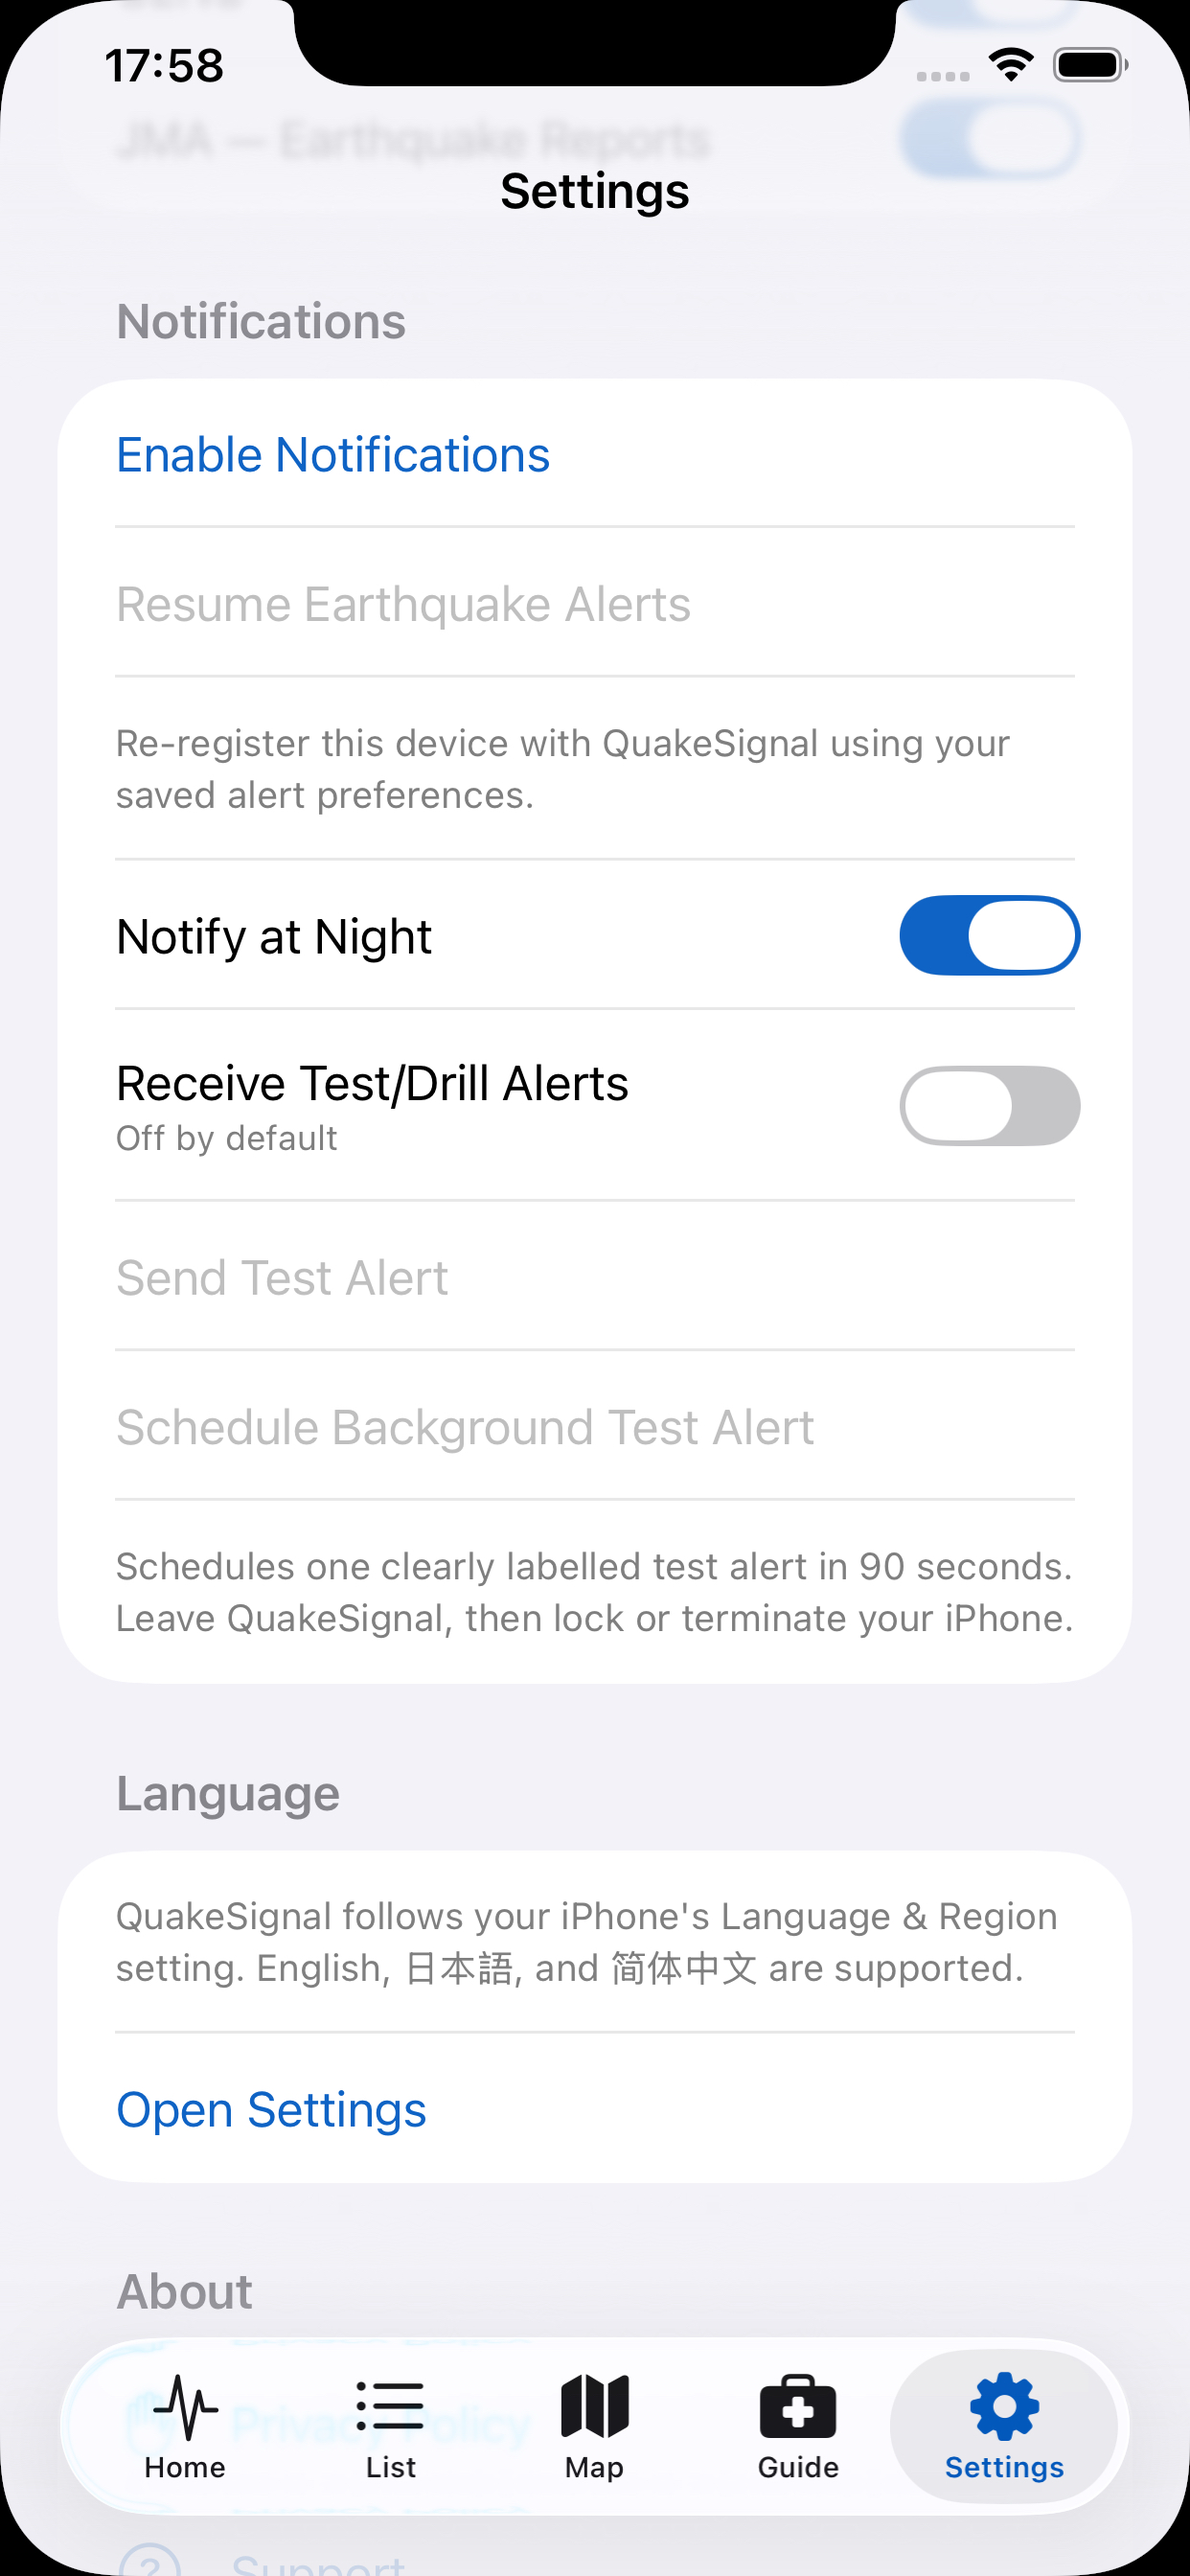
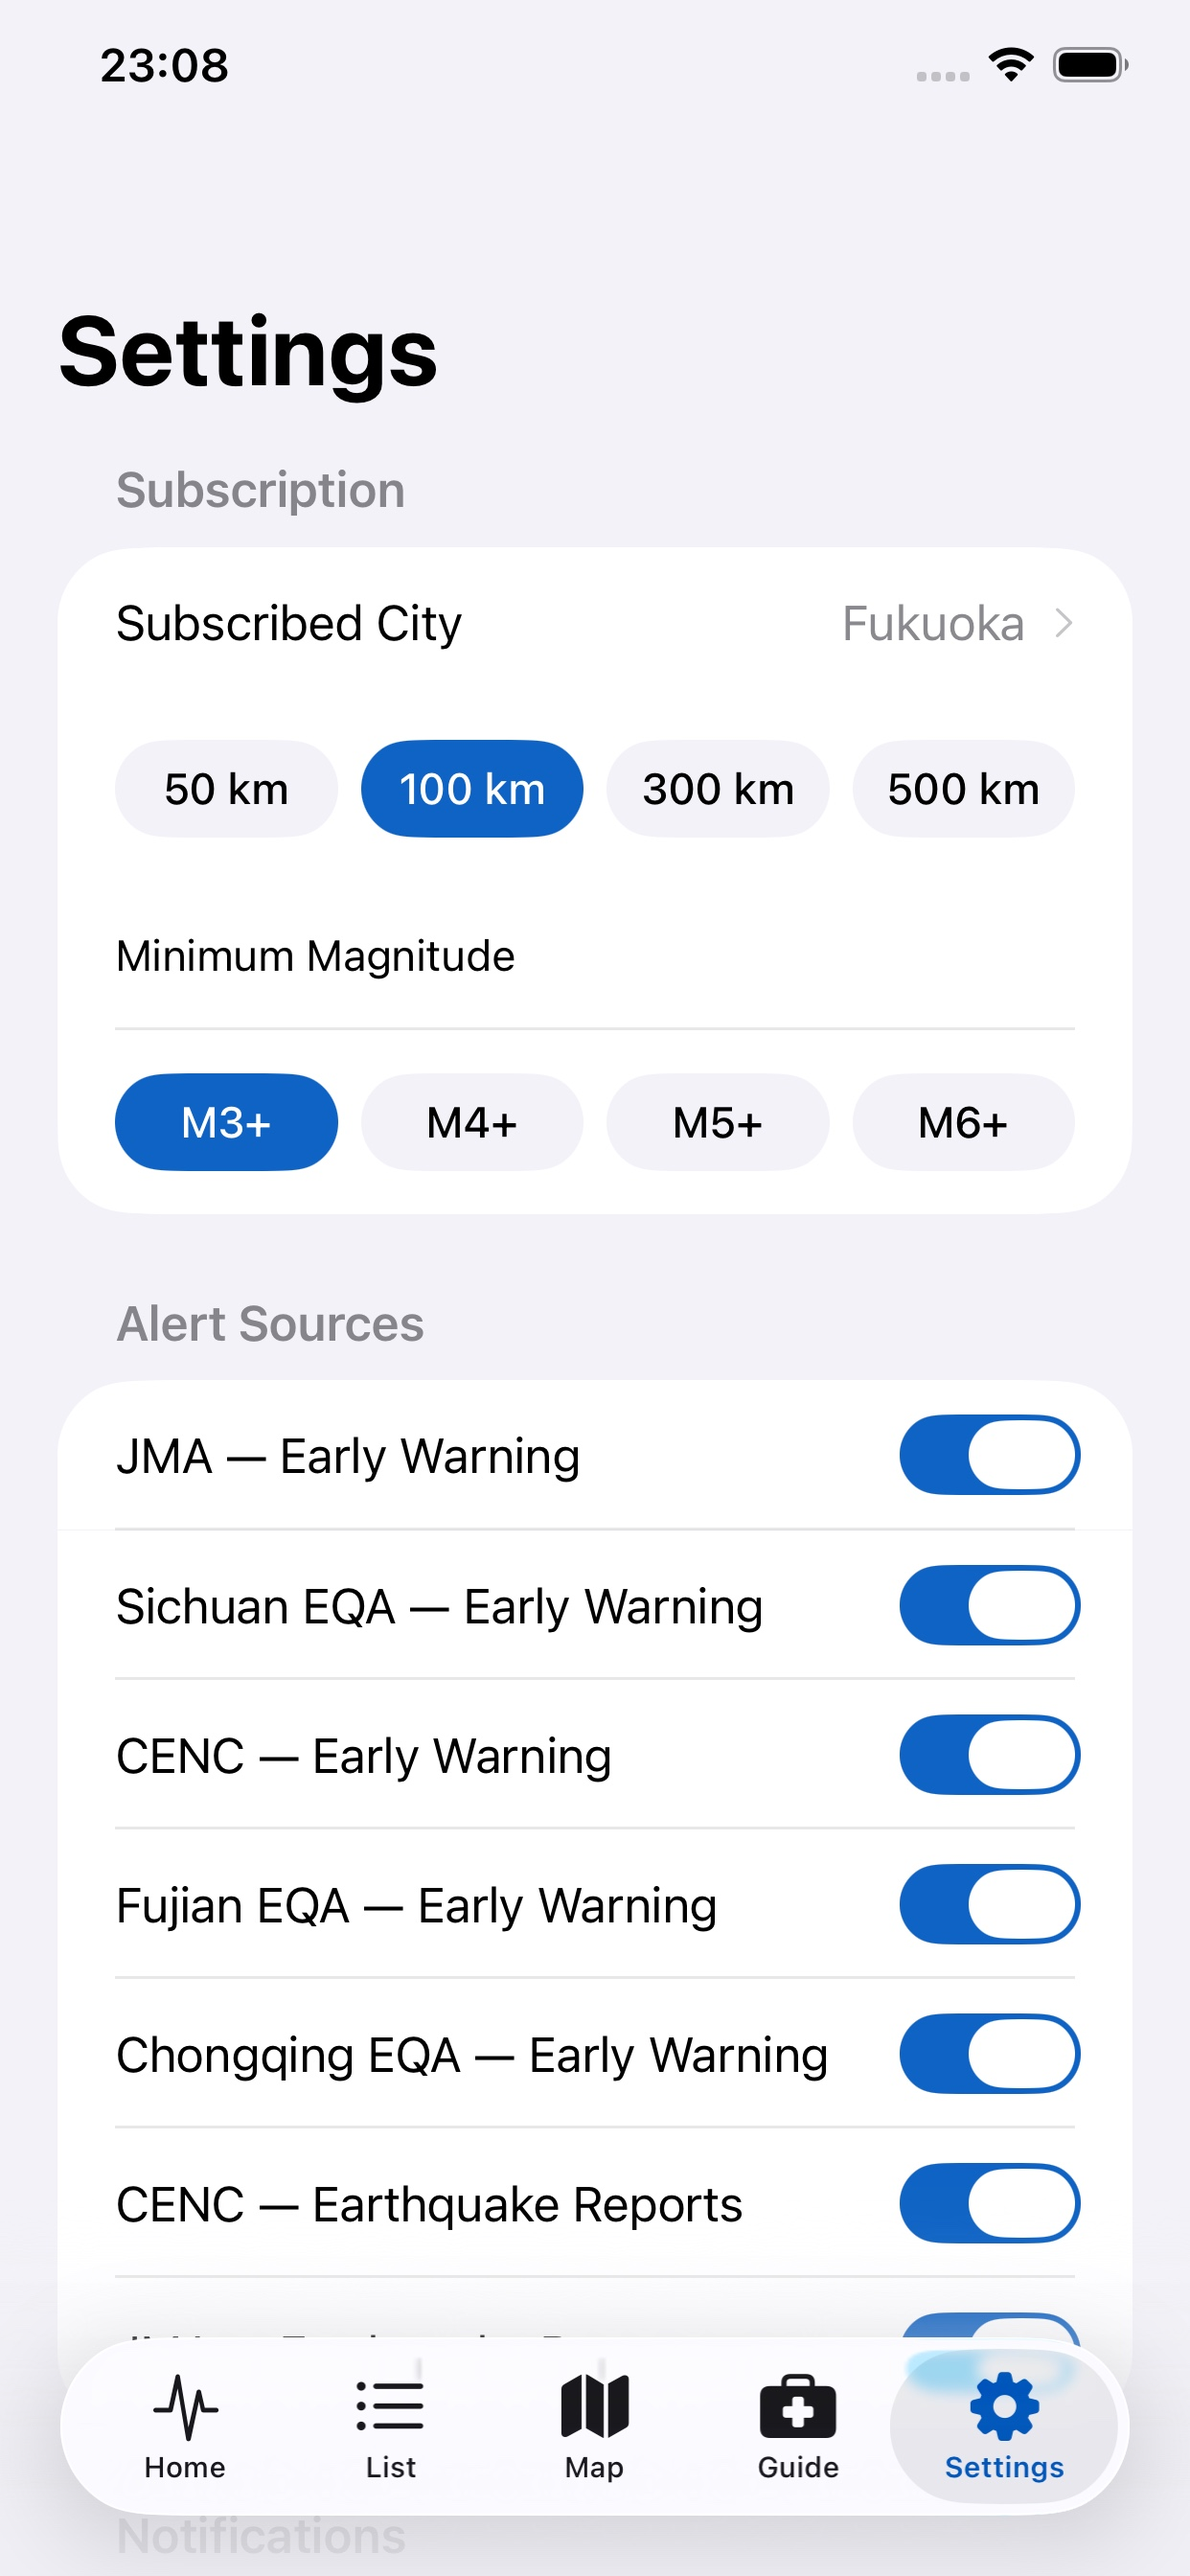
feat: separate internal iOS training QA build

diff --git a/ios/QuakeSignal/Features/Settings/SettingsView.swift b/ios/QuakeSignal/Features/Settings/SettingsView.swift
@@ -6,9 +6,11 @@ struct SettingsView: View {
     @State private var notifications = NotificationManager.shared
     @State private var isSendingTest = false
     @State private var testResultMessage: String?
+#if QUAKESIGNAL_INTERNAL_QA
     @State private var isSchedulingDelayedTest = false
     @State private var delayedTestResultMessage: String?
     @State private var showingDelayedTestConfirmation = false
+#endif
     @State private var isUpdatingPushSubscription = false
     @State private var isSynchronizingPushPreferences = false
     @State private var needsPushPreferenceResync = false
@@ -104,6 +106,7 @@ struct SettingsView: View {
                             .foregroundStyle(.secondary)
                     }
 
+#if QUAKESIGNAL_INTERNAL_QA
                     Button {
                         showingDelayedTestConfirmation = true
                     } label: {
@@ -129,6 +132,7 @@ struct SettingsView: View {
                             .font(.footnote)
                             .foregroundStyle(.secondary)
                     }
+#endif
                 }
 
                 Section("settings.section.language") {
@@ -166,6 +170,7 @@ struct SettingsView: View {
             } message: {
                 Text("settings.pushSubscription.remove.confirmation.message")
             }
+#if QUAKESIGNAL_INTERNAL_QA
             .confirmationDialog(
                 String(localized: "settings.delayedTestAlert.confirmation.title"),
                 isPresented: $showingDelayedTestConfirmation,
@@ -178,6 +183,7 @@ struct SettingsView: View {
             } message: {
                 Text("settings.delayedTestAlert.confirmation.message")
             }
+#endif
             .onChange(of: settings.minMagnitude) { _, _ in resyncPushPreferences() }
             .onChange(of: settings.notifyAtNight) { _, _ in resyncPushPreferences() }
             .onChange(of: settings.includeTestAlerts) { _, _ in resyncPushPreferences() }
@@ -420,6 +426,7 @@ struct SettingsView: View {
         isSendingTest = false
     }
 
+#if QUAKESIGNAL_INTERNAL_QA
     private func scheduleDelayedTestAlert() async {
         guard settings.pushRegistrationState == .active,
               let token = notifications.deviceToken else {
@@ -438,6 +445,7 @@ struct SettingsView: View {
             )
         }
     }
+#endif
 }
 
 private struct TierChip: View {

diff --git a/ios/QuakeSignal/Models/DeviceRegistration.swift b/ios/QuakeSignal/Models/DeviceRegistration.swift
@@ -15,21 +15,22 @@ struct DeviceRegistrationRequest: Encodable {
     let notifyAtNight: Bool
 }
 
-/// The delayed mode is a fixed server-side TestFlight QA window, not a
-/// client-controlled delivery time. Keeping this as a distinct request model
-/// makes its exact, App-Attest-signed JSON contract explicit.
-struct DeviceTrainingTestRequest: Encodable, Equatable {
-    enum Delivery: String, Encodable {
+/// The token-bearing request used by the ordinary, user-visible test alert.
+/// It intentionally contains no client-selectable delivery mode.
+struct DeviceTokenRequest: Encodable, Equatable {
+    let token: String
+}
+
+#if QUAKESIGNAL_INTERNAL_QA
+/// A fixed server-side background-delivery verification request. This type is
+/// compiled only into the controlled InternalQA configuration, never into the
+/// public Release archive.
+struct DelayedTrainingTestRequest: Encodable, Equatable {
+    private enum Delivery: String, Encodable {
         case delayedTraining = "delayed-training"
     }
 
     let token: String
-    let delivery: Delivery?
-
-    init(token: String, delivery: Delivery? = nil) {
-        self.token = token
-        self.delivery = delivery
-    }
 
     private enum CodingKeys: String, CodingKey {
         case token
@@ -39,11 +40,10 @@ struct DeviceTrainingTestRequest: Encodable, Equatable {
     func encode(to encoder: Encoder) throws {
         var container = encoder.container(keyedBy: CodingKeys.self)
         try container.encode(token, forKey: .token)
-        if let delivery {
-            try container.encode(delivery, forKey: .delivery)
-        }
+        try container.encode(Delivery.delayedTraining, forKey: .delivery)
     }
 }
+#endif
 
 /// A device deletion can be bound to an APNs token when one is still present,
 /// or to the authenticated App Attest credential alone after an APNs token has

diff --git a/ios/QuakeSignalTests/AppAttestWireFormatTests.swift b/ios/QuakeSignalTests/AppAttestWireFormatTests.swift
@@ -68,18 +68,21 @@ final class AppAttestWireFormatTests: XCTestCase {
         XCTAssertNotEqual(original, changed)
     }
 
+    func testTestAlertRequestContainsOnlyTheDeviceToken() throws {
+        let request = try JSONEncoder().encode(DeviceTokenRequest(token: "device-token"))
+        let object = try XCTUnwrap(
+            JSONSerialization.jsonObject(with: request) as? [String: String]
+        )
+        XCTAssertEqual(object, ["token": "device-token"])
+    }
+
+#if QUAKESIGNAL_INTERNAL_QA
     func testDelayedTrainingRequestIsStrictlyEncodedAndChangesTheAttestedBody() throws {
-        let immediate = try JSONEncoder().encode(DeviceTrainingTestRequest(token: "device-token"))
-        let delayed = try JSONEncoder().encode(
-            DeviceTrainingTestRequest(token: "device-token", delivery: .delayedTraining)
-        )
-        let immediateObject = try XCTUnwrap(
-            JSONSerialization.jsonObject(with: immediate) as? [String: String]
-        )
+        let immediate = try JSONEncoder().encode(DeviceTokenRequest(token: "device-token"))
+        let delayed = try JSONEncoder().encode(DelayedTrainingTestRequest(token: "device-token"))
         let delayedObject = try XCTUnwrap(
             JSONSerialization.jsonObject(with: delayed) as? [String: String]
         )
-        XCTAssertEqual(immediateObject, ["token": "device-token"])
         XCTAssertEqual(
             delayedObject,
             ["token": "device-token", "delivery": "delayed-training"]
@@ -109,6 +112,7 @@ final class AppAttestWireFormatTests: XCTestCase {
         )
         XCTAssertNotEqual(immediateProof, delayedProof)
     }
+#endif
 
     func testIdentifierValidationRejectsHeaderInjection() {
         XCTAssertTrue(AppAttestWireFormat.isValidOpaqueIdentifier("AbCd-0123_opaque"))

diff --git a/ios/QuakeSignal/Networking/APIClient.swift b/ios/QuakeSignal/Networking/APIClient.swift
@@ -47,7 +47,7 @@ final class APIClient: Sendable {
     }
 
     func sendTestAlert(token: String) async throws {
-        let body = try JSONEncoder().encode(DeviceTrainingTestRequest(token: token))
+        let body = try JSONEncoder().encode(DeviceTokenRequest(token: token))
         try await performProtectedRequest(
             binding: AppAttestRequestBinding(
                 operation: .testPush,
@@ -58,13 +58,13 @@ final class APIClient: Sendable {
         )
     }
 
+#if QUAKESIGNAL_INTERNAL_QA
     /// Schedules one fixed-delay, clearly labelled training notification for a
     /// controlled TestFlight background/locked/terminated delivery check. The
     /// Worker rejects it unless the reviewed production test window is open.
+    /// This request path is excluded from public Release compilation.
     func scheduleDelayedTestAlert(token: String) async throws {
-        let body = try JSONEncoder().encode(
-            DeviceTrainingTestRequest(token: token, delivery: .delayedTraining)
-        )
+        let body = try JSONEncoder().encode(DelayedTrainingTestRequest(token: token))
         try await performProtectedRequest(
             binding: AppAttestRequestBinding(
                 operation: .testPush,
@@ -74,6 +74,7 @@ final class APIClient: Sendable {
             body: body
         )
     }
+#endif
 
     /// App Attest signs `body` before the protected URL request is created. Do
     /// not encode a model a second time here: its exact byte sequence is part
